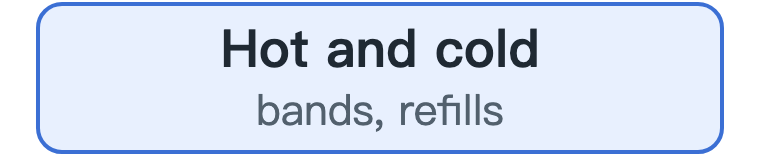
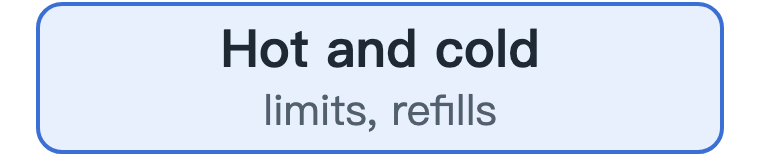
Docs: deployment and enclaves diagrams, limits wording on the Hot and cold tile

Changed region(s): [[0.3329, 0.5897, 0.6658, 0.8462]]

diff --git a/docs/images/build.py b/docs/images/build.py
@@ -37,7 +37,7 @@ ZH = {
     "Ledger": "账本", "double entry, Reconcile": "复式记账、对账",
     "Audit trail": "审计记录", "hash chains": "哈希链",
     "Signing zone": "签名区", "checks every job before any key signs": "每个任务先核对，密钥才签名",
-    "Hot and cold": "冷热钱包", "bands, refills": "水位线、补充",
+    "Hot and cold": "冷热钱包", "limits, refills": "上下限、补充",
     "MPC parties A, B, C": "MPC 参与方 A、B、C", "key shares, each sealed in its own HSM token": "密钥份额，各封存在自己的 HSM 令牌里",
     "EVM": "EVM", "forwarders, nonces": "转发合约、nonce",
     "Bitcoin": "Bitcoin", "coins, change": "UTXO、找零",
@@ -133,6 +133,19 @@ ZH = {
     "Old key drains": "旧密钥清空", "funds move to the new key": "资金转到新密钥",
     "Old key retired": "旧密钥退役", "its addresses stay watched": "它的地址继续监控",
     "Emergency": "紧急情况", "a stolen key may only move its funds to the new key": "被盗的密钥只能把资金转到新密钥",
+    # deployment
+    "Business": "业务", "core, worker, databases": "核心、worker、数据库",
+    "Signing core": "签名核心", "gateway and party A": "网关和参与方 A",
+    "Party B cluster": "参与方 B 集群", "party B and its checker": "参与方 B 和它的检查程序",
+    "Party C cluster": "参与方 C 集群", "party C and its checker": "参与方 C 和它的检查程序",
+    "Signing side": "签名一侧", "only calls out, nothing pushes in": "只向外调用，没有东西能推进来",
+    "Cold signer": "冷签名机", "offline, never in a cluster": "离线，从不进集群",
+    # enclaves
+    "Party": "参与方", "starts in": "在飞地里", "an enclave": "启动",
+    "Proof": "证明", "of the exact": "确切程序", "program": "的度量结果",
+    "Broker": "代理", "checks, then": "核对后", "releases the key": "才放出密钥",
+    "Key in memory": "内存里的密钥", "opens the": "打开封存", "sealed shares": "的份额",
+    "Simulated today": "目前是模拟", "no real enclave has run it yet": "还没有真正的飞地运行过",
 }
 
 
@@ -262,7 +275,7 @@ def architecture():
     d.arrow(cols[1], 2, cols[1], 56)
     d.write()
 
-    tile("tiers", 380, H, "Hot and cold", "bands, refills", "blue").write()
+    tile("tiers", 380, H, "Hot and cold", "limits, refills", "blue").write()
 
     d = D("arch-merge2", 1140, 58)
     d.arrow(cols[1], 2, cols[1], 56, "queues sign jobs", lx=cols[1] + 14, ly=36, anchor="start")
@@ -435,8 +448,27 @@ def key_replacement():
     d.write()
 
 
+def deployment():
+    d = D("deployment", 1140, 272)
+    cards(d, [("Business", "core, worker, databases", "gray"), ("Signing core", "gateway and party A", "green"),
+              ("Party B cluster", "party B and its checker", "green"), ("Party C cluster", "party C and its checker", "green")],
+          y=20, h=100, gap=24, size=22)
+    d.box(30, 160, 520, 80, "Signing side", "only calls out, nothing pushes in", "amber")
+    d.box(590, 160, 520, 80, "Cold signer", "offline, never in a cluster", "gray")
+    d.write()
+
+
+def enclaves():
+    d = D("enclaves", 1140, 262)
+    row(d, [("Party", "starts in\nan enclave", "blue"), ("Proof", "of the exact\nprogram", "amber"),
+            ("Broker", "checks, then\nreleases the key", "green"), ("Key in memory", "opens the\nsealed shares", "purple")],
+        y=20, h=100, gap=44, size=23)
+    d.box(30, 160, 1080, 76, "Simulated today", "no real enclave has run it yet", "red")
+    d.write()
+
+
 def build_all():
-    for f in (key_replacement, flow, architecture, signing_zone, ledger, workflows, mpc, tiers, evm, bitcoin, bitcoin_sending, solana, identity, api, audit, testing):
+    for f in (deployment, enclaves, key_replacement, flow, architecture, signing_zone, ledger, workflows, mpc, tiers, evm, bitcoin, bitcoin_sending, solana, identity, api, audit, testing):
         f()
 
 
